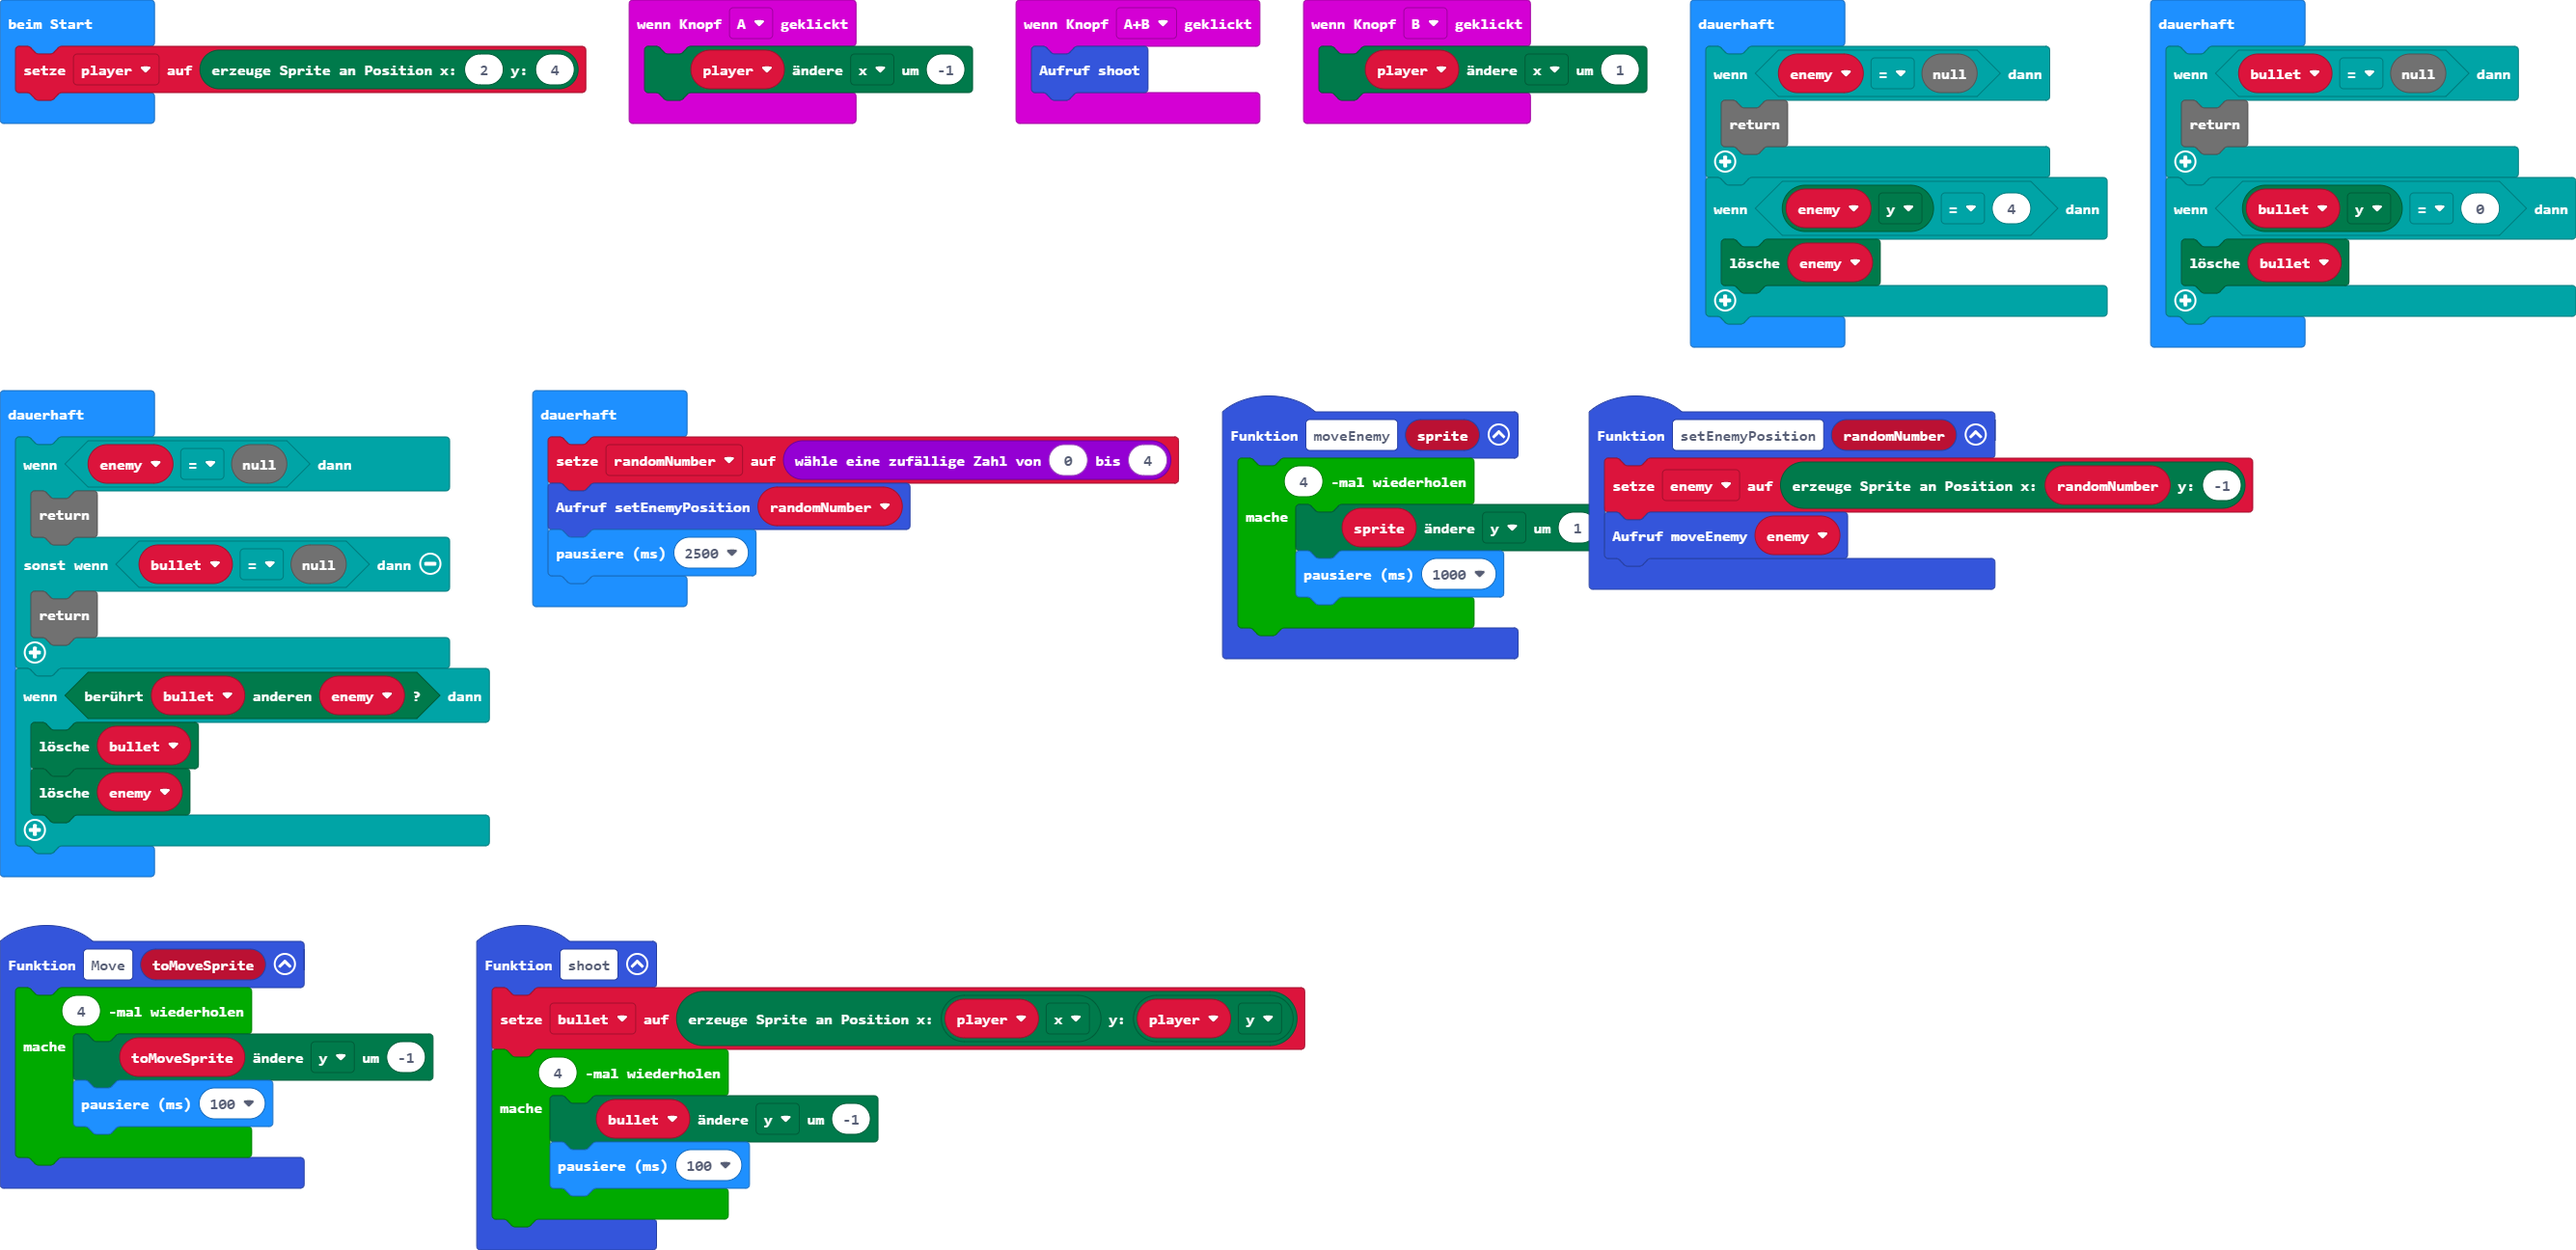
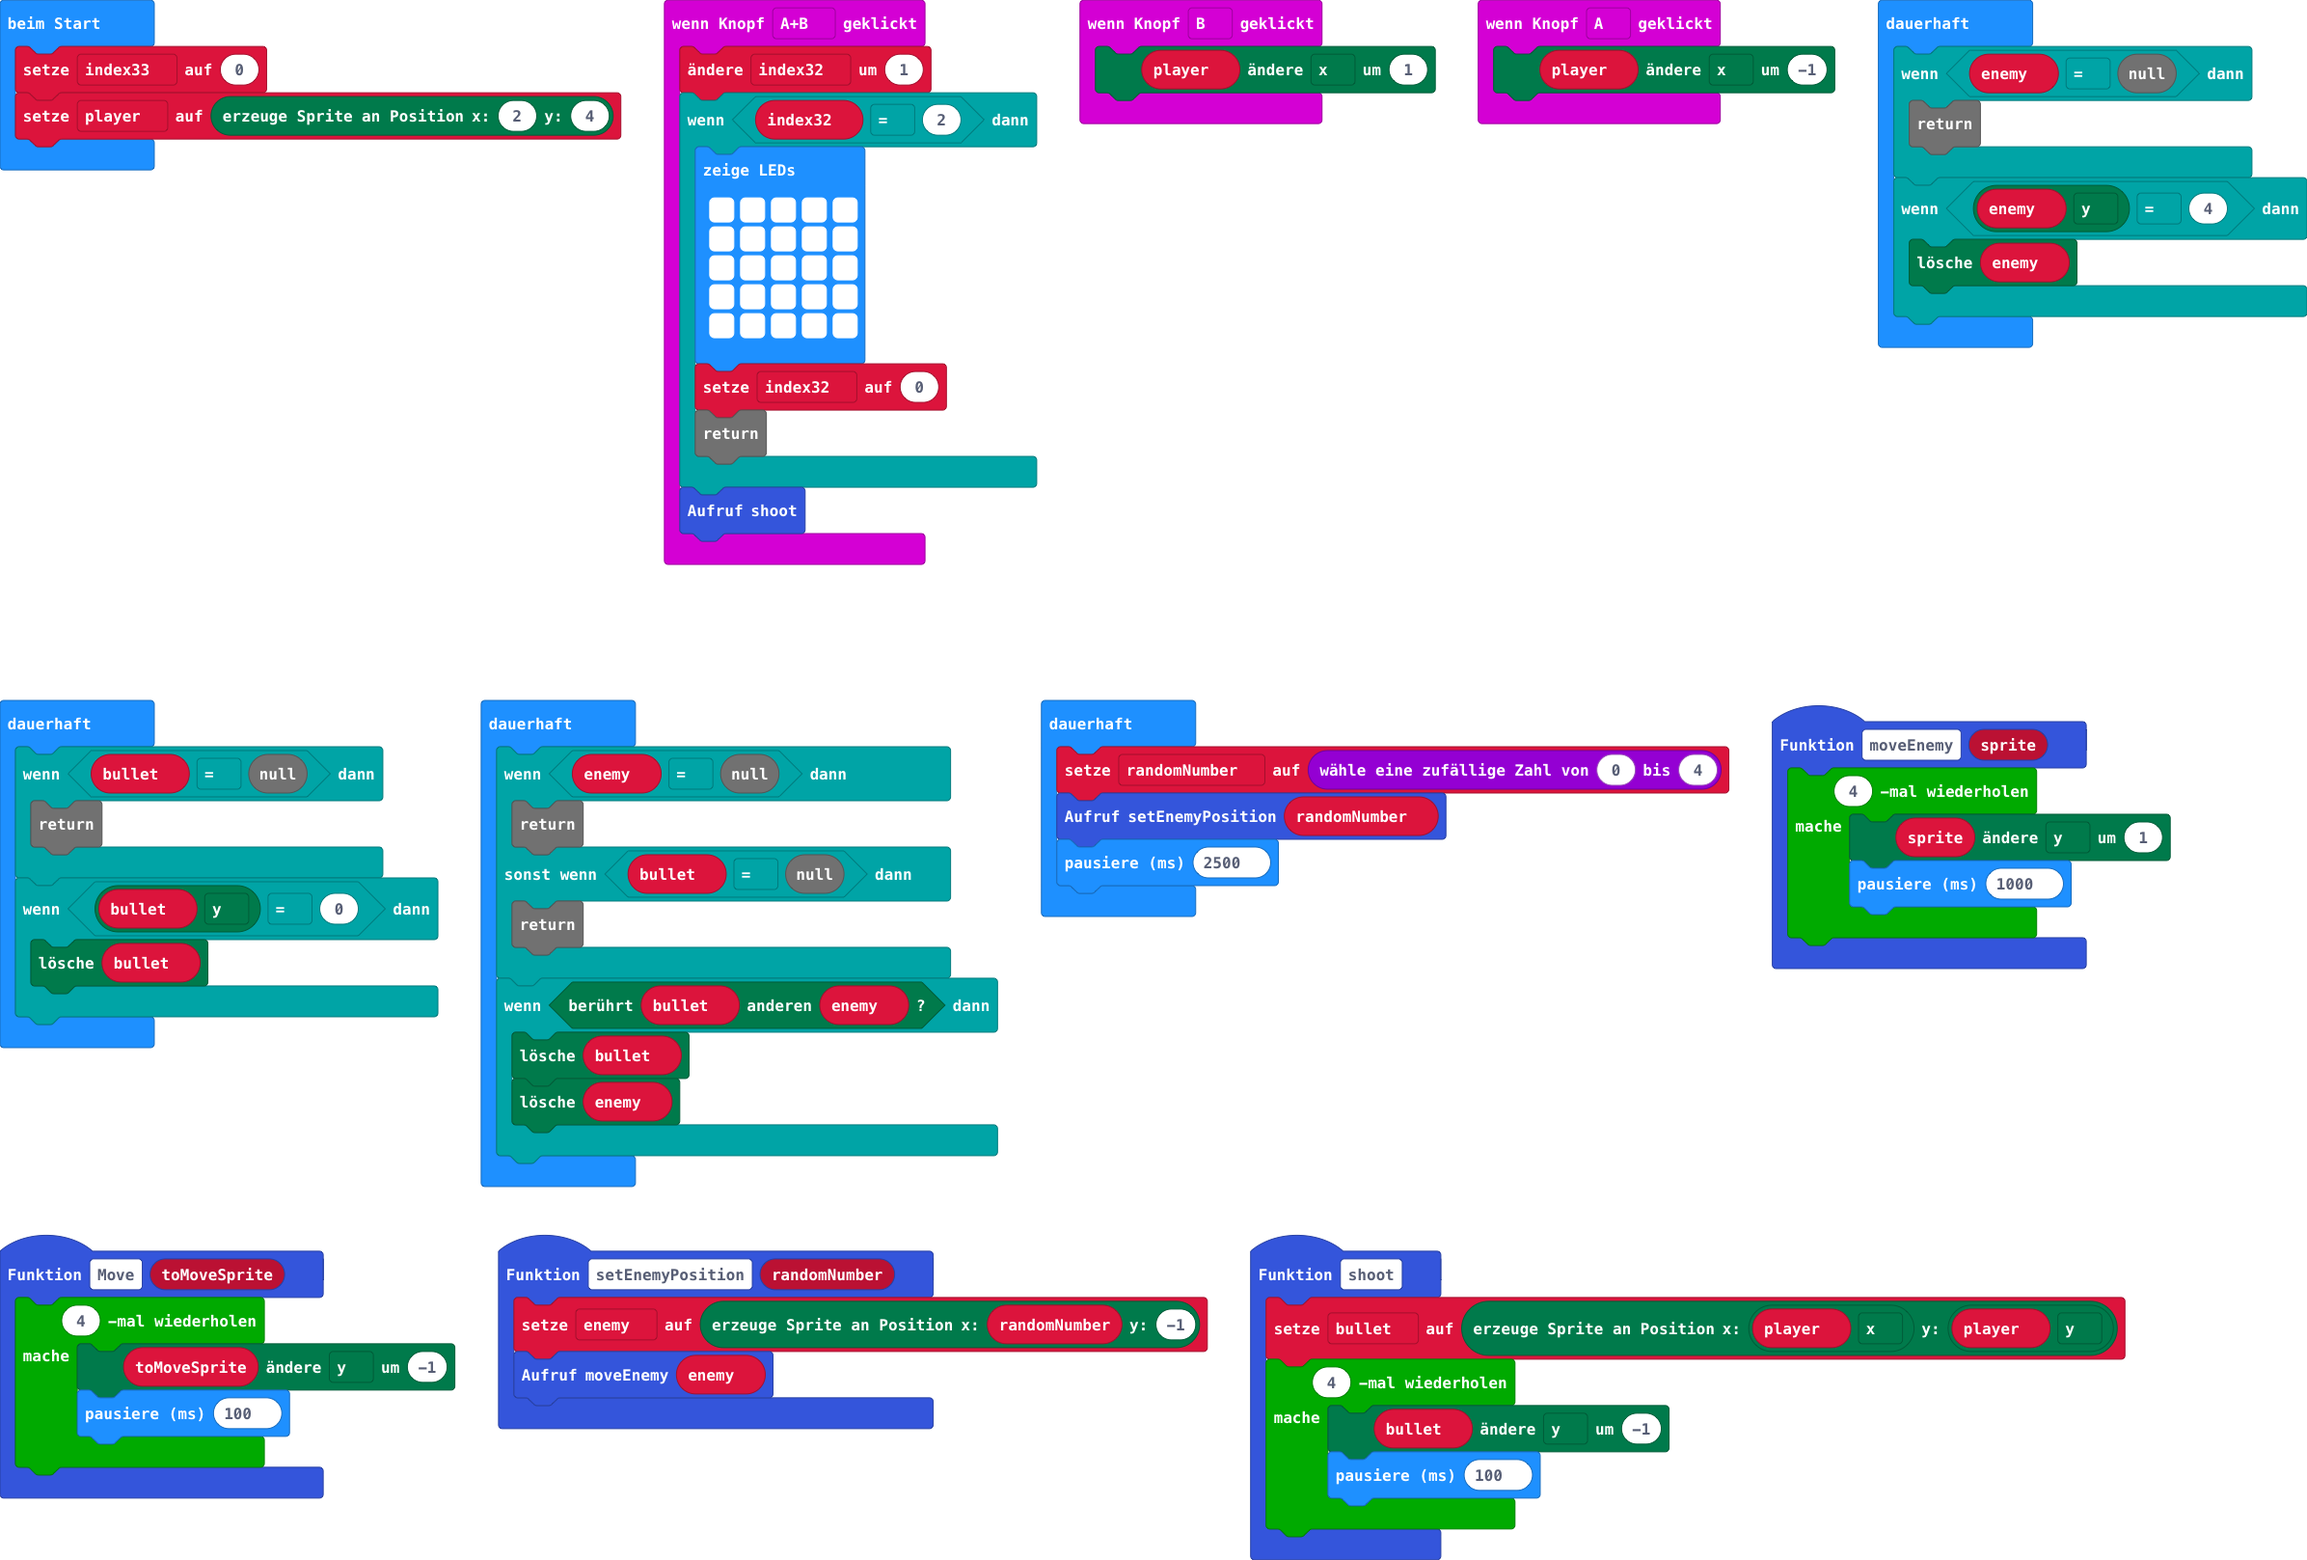
Aktualisiere pxt.json, main.blocks, main.ts

diff --git a/main.ts b/main.ts
@@ -15,6 +15,18 @@ function shoot () {
     }
 }
 input.onButtonPressed(Button.AB, function () {
+    index32 += 1
+    if (index32 == 2) {
+        basic.showLeds(`
+            # # # # #
+            # # # # #
+            # # # # #
+            # # # # #
+            # # # # #
+            `)
+        index32 = 0
+        return
+    }
     shoot()
 })
 input.onButtonPressed(Button.B, function () {
@@ -32,8 +44,10 @@ function setEnemyPosition (randomNumber: number) {
 }
 let randomNumber = 0
 let enemy: game.LedSprite = null
+let index32 = 0
 let bullet: game.LedSprite = null
 let player: game.LedSprite = null
+let index33 = 0
 player = game.createSprite(2, 4)
 basic.forever(function () {
     if (enemy == null) {
